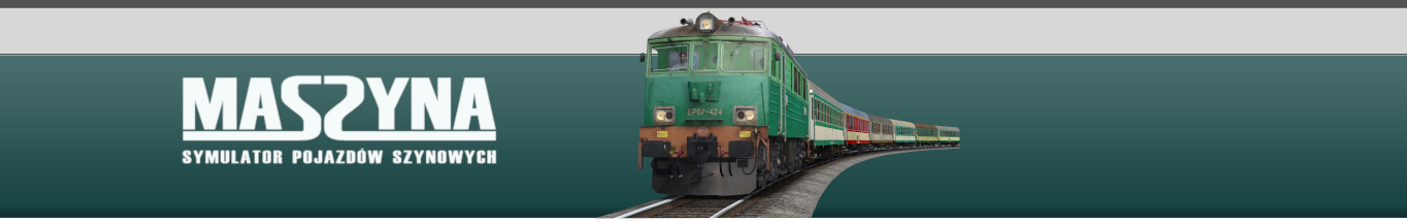
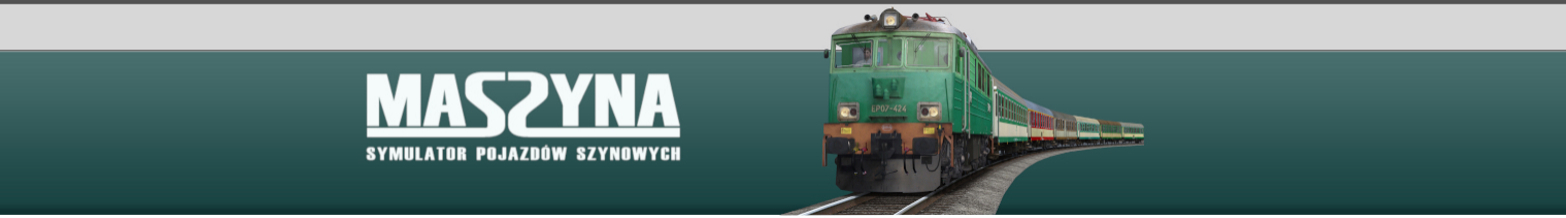
header
reagowanie na wielkość ekranu

Changed region(s): [[0.0, 0.0, 1.0, 0.9908]]

diff --git a/style.css b/style.css
@@ -4,7 +4,7 @@ body {
 }
 #header{
     background: url('images/header2018.jpg') no-repeat;
-    width: 1385px;
+    width: 1384px;
     height: 216px;
     margin: 0;
     display: block;
@@ -19,7 +19,7 @@ body {
     display: block;
     text-align: right;
     float: right;
-    margin: 3px;
+    margin: 10px;
 }
 nav {
     display: flex;
@@ -91,4 +91,15 @@ main iframe {
 }
 #lang a {
     text-decoration: none;
+}
+@media only screen and (min-width: 1420px){
+    #header {
+        background: url('images/header2018.jpg') no-repeat;
+        width: 1481px;
+        height: 216px;
+        margin: 0;
+        display: block;
+        overflow: hidden;
+        text-align: center;
+    }
 }
